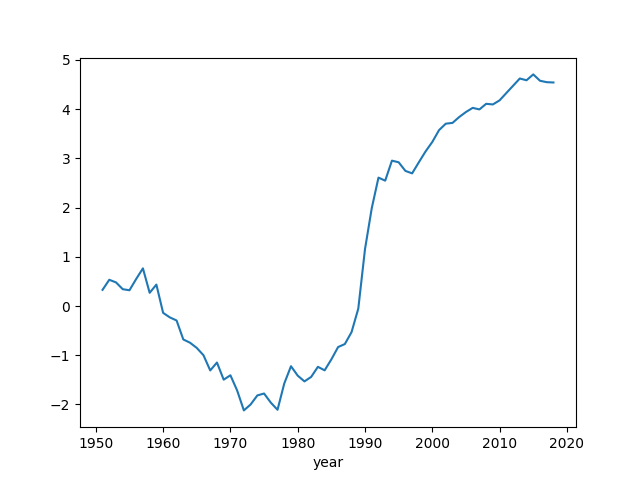
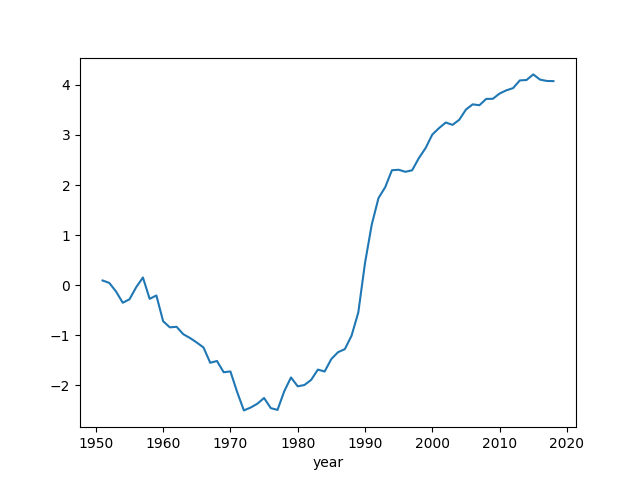
-

diff --git a/en/tweets/2020/week16.md b/en/tweets/2020/week16.md
@@ -353,42 +353,6 @@ collapsed, etc.
 
 ---
 
-That is actually incorrect. Democracy has been strengthening around
-the world. To see that clearly, let's look at the data, the Polity
-data set.
-
-[Main Page](http://www.systemicpeace.org/inscrdata.html), [Data](http://www.systemicpeace.org/inscr/p4v2018.xls), [Data - Local](p4v2018.xls)
-
-Their `DEMOC` and `AUTOC` columns contain the level of insititutional
-leanings of a country, `POLITY` column is one subtracted from the
-other, it ranges btw -10 and +10, the latter being full democracy.
-
-If we group per year and average each country, we see where the world
-is heading,
-
-
-```python
-import pandas as pd
-df = pd.read_excel('p4v2018.xls')
-df = df[df.polity > -10.0] # remove junk code -88
-polity = df.groupby('year')['polity'].mean()
-polity.plot()
-plt.savefig('polity.png')
-```
-
-<img width="340" src="https://pbs.twimg.com/media/EVy9iHGXgAAtkQo?format=png&name=small"/>
-
-It looks to me like things are improving. We are nowhere near +10, but
-around a 4.
-
-"@RichardHaass
-
-The global spread of democracy began leveling off some 15 years ago"
-
-[Link](https://mobile.twitter.com/RichardHaass/status/1250796366437199872)
-
----
-
 <blockquote class="twitter-tweet"><p lang="en" dir="ltr">At this pace Wall Street will make new record highs once everybody is unemployed. <a href="https://t.co/dWMoOCaQ9m">pic.twitter.com/dWMoOCaQ9m</a></p>&mdash; Sven Henrich (@NorthmanTrader) <a href="https://twitter.com/NorthmanTrader/status/1250764674762768389?ref_src=twsrc%5Etfw">April 16, 2020</a></blockquote> <script async src="https://platform.twitter.com/widgets.js" charset="utf-8"></script>
 
 ---

diff --git a/en/2020/07/ancient.md b/en/2020/07/ancient.md
@@ -40,49 +40,3 @@ Others 11739.59
 
 Significant difference.
 
-Democratic progress, them versus the entire world,
-
-```python
-import pandas as pd
-df = pd.read_excel('../../tweets/2020/p4v2018.xls')
-df = df[df.polity > -10.0] # remove junk code -88
-print ('Mafia',np.round(df[df.country.isin(anc)].polity.mean(),2))
-print ('Others',np.round(df[df.country.isin(anc) == False].polity.mean(),2))
-```
-
-```text
-Mafia -0.53
-Others 0.44
-```
-
-Throught the *entire* 100+ years the Polity keeps track of, "ancient"
-countries did worse democratically than the rest.
-
-"But things would've changed recently". Ok, let's look at that.
-
-```python
-df3 = df[df.year == 2018]
-print ('Mafia',np.round(df3[df3.country.isin(anc)].polity.mean(),2))
-print ('Others',np.round(df3[df3.country.isin(anc) == False].polity.mean(),2))
-```
-
-```
-Mafia -0.33
-Others 4.73
-```
-
-Mafia improved only __tiny__ bit while still being in the red (< 0),
-while the rest made significant advances.
-
-The conclusion
-
-There is nothing to be proud of for these countries... "Ancient"
-simply means people people of those regions would have more chance to
-be around a c--ksucker like Julius Ceasar or Otto Soleiman which would
-poison the governance cultures of these lands irrevocably. I still
-remember with horror when BBC reported that Egypt, until the 2012
-election did not have a single day of democracy in its past. NOT A
-SINGLE DAY. Think about that.. Would you rather have "ancient" grand
-pyramids, or one day of democracy in your past..
-
-I'd opt for the latter.

diff --git a/en/2016/11/why-is-democracy-better.md b/en/2016/11/why-is-democracy-better.md
@@ -196,6 +196,8 @@ plt.savefig('bti-all.png')
 
 ![](bti-all.png)
 
+Polity
+
 Here is democracy status from the Polity dataset. Their `DEMOC` and
 `AUTOC` columns contain the level of insititutional leanings of a
 country, `POLITY` column is one subtracted from the other, it ranges
@@ -204,8 +206,9 @@ btw -10 and +10, the latter being full democracy.
 ```python
 import pandas as pd
 df = pd.read_excel('../../tweets/2020/p4v2018.xls')
-df = df[df.polity > -10.0] # remove junk code -88
 df = df[df.year > 1950]
+df.loc[df.polity < -10, 'polity'] = np.nan
+df['polity'] = df['polity'].interpolate(method='linear')
 polity = df.groupby('year')['polity'].mean()
 polity.plot()
 plt.savefig('polity-all.png')
